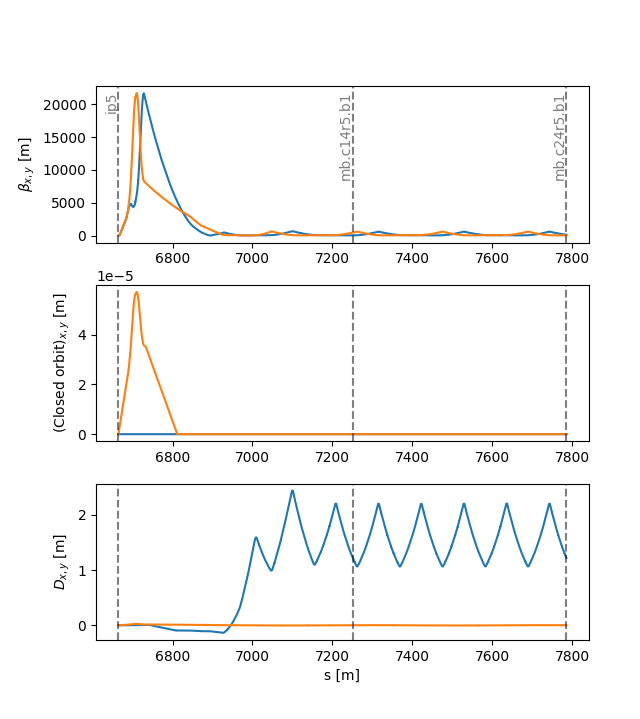
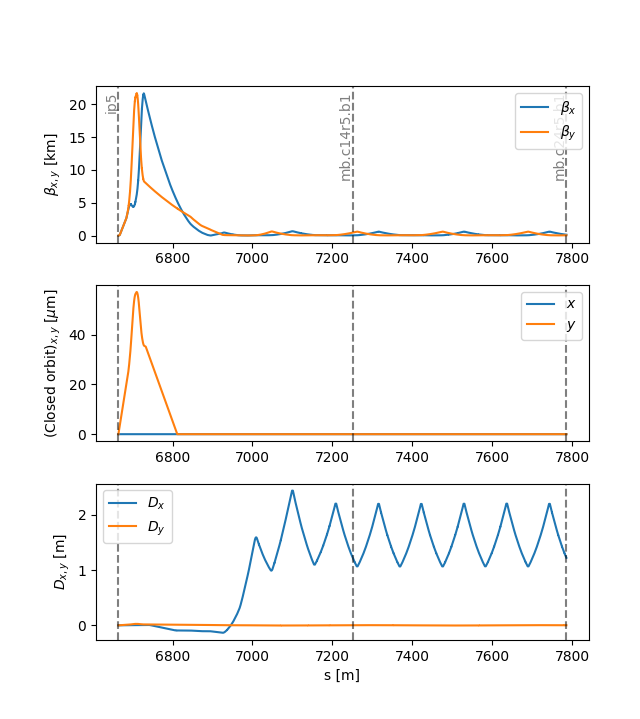
improve twiss and readme

diff --git a/twiss/twiss.py b/twiss/twiss.py
@@ -16,7 +16,6 @@ Twiss defaults
 Twiss with synchrotron radiation
 '''
 
-
 #? How to generate and access the line.twiss() info
 # Load a beamline from a JSON file and set up the reference particle
 line = xt.Line.from_json('twiss_line.json')
@@ -49,15 +48,15 @@ spco = plt.subplot(3,1,2, sharex=spbet)  # Subplot for the closed orbit, sharing
 spdisp = plt.subplot(3,1,3, sharex=spbet)  # Subplot for dispersion functions, also sharing the x-axis
 
 # Plot horizontal and vertical beta functions
-spbet.plot(tw.s, tw.betx, label=r'$\beta_x$')
-spbet.plot(tw.s, tw.bety, label=r'$\beta_y$')
-spbet.set_ylabel(r'$\beta_{x,y}$ [m]')
+spbet.plot(tw.s, tw.betx*1e-3, label=r'$\beta_x$')
+spbet.plot(tw.s, tw.bety*1e-3, label=r'$\beta_y$')
+spbet.set_ylabel(r'$\beta_{x,y}$ [km]')
 spbet.legend()
 
 # Plot horizontal and vertical closed orbits
-spco.plot(tw.s, tw.x, label=r'$x$')
-spco.plot(tw.s, tw.y, label=r'$y$')
-spco.set_ylabel(r'(Closed orbit)$_{x,y}$ [m]')
+spco.plot(tw.s, tw.x*1e6, label=r'$x$')
+spco.plot(tw.s, tw.y*1e6, label=r'$y$')
+spco.set_ylabel(r'(Closed orbit)$_{x,y}$ [$\mu$m]')
 spco.legend()
 
 # Plot horizontal and vertical dispersions
@@ -80,7 +79,7 @@ spbet.set_xlim(tw['s', 'ip5'] - 1000, tw['s', 'ip5'] + 1000)
 fig1.subplots_adjust(left=.15, right=.92, hspace=.27)
 plt.show()
 
-
+#? What about the *beam size*?
 # Transverse normalized emittances
 nemitt_x = 2.5e-6
 nemitt_y = 2.5e-6
@@ -88,8 +87,7 @@ nemitt_y = 2.5e-6
 # Longitudinal emittance from energy spread
 sigma_pzeta = 2e-4
 gemitt_zeta = sigma_pzeta**2 * tw.bets0
-# similarly, if the bunch length is known, the emittance can be computed as
-# gemitt_zeta = sigma_zeta**2 / tw.bets0
+# similarly, if the bunch length is known, the emittance can be computed as gemitt_zeta = sigma_zeta**2 / tw.bets0
 
 # Compute beam sizes
 beam_sizes = tw.get_beam_covariance(nemitt_x=nemitt_x, nemitt_y=nemitt_y,
@@ -124,18 +122,28 @@ spbet = plt.subplot(3,1,1)
 spdisp = plt.subplot(3,1,2, sharex=spbet)
 spbsz = plt.subplot(3,1,3, sharex=spbet)
 
-spbet.plot(tw.s, tw.betx)
-spbet.plot(tw.s, tw.bety)
-spbet.set_ylabel(r'$\beta_{x,y}$ [m]')
+spbet.plot(tw.s, tw.betx*1e-3, label=r'$\beta_x$')
+spbet.plot(tw.s, tw.bety*1e-3, label=r'$\beta_y$')
+spbet.set_ylabel(r'$\beta_{x,y}$ [km]')
+spbet.legend()
 
-spdisp.plot(tw.s, tw.dx)
-spdisp.plot(tw.s, tw.dy)
+spdisp.plot(tw.s, tw.dx, label=r'$D_x$')
+spdisp.plot(tw.s, tw.dy, label=r'$D_y$')
 spdisp.set_ylabel(r'$D_{x,y}$ [m]')
+spdisp.set_xlabel('s [m]')
+spdisp.legend()
 
-spbsz.plot(beam_sizes.s, beam_sizes.sigma_x)
-spbsz.plot(beam_sizes.s, beam_sizes.sigma_y)
-spbsz.set_ylabel(r'$\sigma_{x,y}$ [m]')
+spbsz.plot(beam_sizes.s, beam_sizes.sigma_x*1e3, label=r'$\sigma_x$')
+spbsz.plot(beam_sizes.s, beam_sizes.sigma_y*1e3, label=r'$\sigma_y$')
+spbsz.set_ylabel(r'$\sigma_{x,y}$ [mm]')
 spbsz.set_xlabel('s [m]')
+spbsz.legend()
+
+fig2.suptitle(
+    r'$q_x$ = ' f'{tw.qx:.5f}' r' $q_y$ = ' f'{tw.qy:.5f}' '\n'
+    r"$Q'_x$ = " f'{tw.dqx:.2f}' r" $Q'_y$ = " f'{tw.dqy:.2f}'
+    r' $\gamma_{tr}$ = ' f'{1/np.sqrt(tw.momentum_compaction_factor):.2f}'
+)
 
 spbet.set_xlim(tw['s', 'ip5'] - 1000, tw['s', 'ip5'] + 1000)
 
@@ -199,23 +207,26 @@ spbet = plt.subplot(3,1,1)
 spco = plt.subplot(3,1,2, sharex=spbet)
 spdisp = plt.subplot(3,1,3, sharex=spbet)
 
-spbet.plot(tw.s, tw.betx)
-spbet.plot(tw.s, tw.bety)
-spbet.set_ylabel(r'$\beta_{x,y}$ [m]')
+spbet.plot(tw.s, tw.betx*1e-3, label=r'$\beta_x$')
+spbet.plot(tw.s, tw.bety*1e-3, label=r'$\beta_y$')
+spbet.set_ylabel(r'$\beta_{x,y}$ [km]')
+spbet.legend()
 
-spco.plot(tw.s, tw.x)
-spco.plot(tw.s, tw.y)
-spco.set_ylabel(r'(Closed orbit)$_{x,y}$ [m]')
+spco.plot(tw.s, tw.x*1e6, label=r'$x$')
+spco.plot(tw.s, tw.y*1e6, label=r'$y$')
+spco.set_ylabel(r'(Closed orbit)$_{x,y}$ [$\mu$m]')
+spco.legend()
 
-spdisp.plot(tw.s, tw.dx)
-spdisp.plot(tw.s, tw.dy)
+spdisp.plot(tw.s, tw.dx, label=r'$D_x$')
+spdisp.plot(tw.s, tw.dy, label=r'$D_y$')
 spdisp.set_ylabel(r'$D_{x,y}$ [m]')
 spdisp.set_xlabel('s [m]')
+spdisp.legend()
 
 for nn in ['ip5', 'mb.c14r5.b1', 'mb.c24r5.b1']:
     for ax in [spbet, spco, spdisp]:
         ax.axvline(tw_p['s', nn], color='k', ls='--', alpha=.5)
-    spbet.text(tw_p['s', nn], 22000, nn, rotation=90,
+    spbet.text(tw_p['s', nn], 22, nn, rotation=90,
         horizontalalignment='right', verticalalignment='top', alpha=.5)
 
 fig1.subplots_adjust(left=.15, right=.92, hspace=.27)

diff --git a/README.md b/README.md
@@ -1,5 +1,4 @@
-<!-- <div style="width: 830px"> -->
-<div style="width: 830px">
+<!-- vscode-only-start --><div style="width: 830px"><!-- vscode-only-end -->
 
 # X-Suite starter pack
 As described on [x-suite website](https://xsuite.readthedocs.io/en/latest/):  
@@ -13,8 +12,8 @@ When possible, I will point to the link of the original example/repo.
 - [First working example](#first-working-example)
 - [Describe a Line](#describe-a-line)
 - [Build a ring](#build-a-ring)
-- [Acceleration](#Acceleration)
 - [Twiss](#twiss)
+- [Acceleration](#Acceleration)
 
 ## Install X-Suite
 X-Suite can be easily installed via `pip` but in case you prefer I have a dockerfile you can use.
@@ -251,90 +250,6 @@ Now we can finally see our results!
 
 </details>
 
-## Acceleration
-Let's see what happens when we rump up the energy of the particles
-
-> [!NOTE]
-> The corresponding file is [acceleration.py](acceleration/acceleration.py)
-> 
-> This is based on : https://github.com/xsuite/xtrack/blob/main/examples/acceleration/001_energy_ramp.py
-
-<details>
-<summary>Click here to see more!</summary>
-
-### Line and intended ramp-up
-
-We start by importing a pre-existing beamline [acceleration_line.json](acceleration/acceleration_line.json)
-
-![acceleration line](acceleration/acceleration_line.png)
-
-
-We then define how we want to ramp-up the energy
-
-```
-# User-defined energy ramp: time values [s] and corresponding kinetic energies [GeV]
-t_s = np.array([0., 0.0006, 0.0008, 0.001 , 0.0012, 0.0014, 0.0016, 0.0018,
-                0.002 , 0.0022, 0.0024, 0.0026, 0.0028, 0.003, 0.01])
-
-E_kin_GeV = np.array([0.16000000,0.16000000,
-    0.16000437, 0.16001673, 0.16003748, 0.16006596, 0.16010243, 0.16014637,
-    0.16019791, 0.16025666, 0.16032262, 0.16039552, 0.16047524, 0.16056165,
-    0.163586])
-
-# Attach the energy program to the line to define how the kinetic energy evolves over time
-line.energy_program = xt.EnergyProgram(
-    t_s=t_s,                            # Array of time points [s]
-    kinetic_energy0=E_kin_GeV * 1e9     # Corresponding kinetic energies [eV]
-)
-```
-
-### Propagate the ramp-up to the elements
-
-Now we need to tell te elements in the line to follow the ramp-up we created
-
-```
-
-# Setup the RF cavity frequency to stay on the second harmonic of the revolution frequency
-t_rf = np.linspace(0, 3e-3, 100)                    # Time samples for the frequency program (in seconds)
-f_rev = line.energy_program.get_frev_at_t_s(t_rf)   # Get revolution frequency for each time sample
-h_rf = 2                                            # Harmonic number
-f_rf = h_rf * f_rev                                 # Calculate RF frequency as harmonic number times revolution frequency
-
-# Build a piecewise linear function using the time and frequency samples and link it to the RF cavity
-line.functions['fun_f_rf'] = xt.FunctionPieceWiseLinear(x=t_rf, y=f_rf)
-line.element_refs['br.c02'].frequency = line.functions['fun_f_rf'](
-                                                        line.vars['t_turn_s']) # Assign the RF frequency function
-
-# Setup the voltage and phase lag of the RF cavity
-line.element_refs['br.c02'].voltage = 3000  # Set the RF cavity voltage [V]
-line.element_refs['br.c02'].lag = 0         # Set the phase lag (in degrees, below transition energy)
-
-# When setting the line variable 't_turn_s', the reference energy and the RF frequency are updated automatically
-line.vars['t_turn_s'] = 0
-line.particle_ref.kinetic_energy0   # Kinetic energy should be 160.00000 MeV
-line['br.c02'].frequency            # RF frequency should be 1983931.935 Hz
-
-line.vars['t_turn_s'] = 3e-3
-line.particle_ref.kinetic_energy0   # Kinetic energy updates to 160.56165 MeV
-line['br.c02'].frequency            # RF frequency updates to 1986669.0559674294 Hz
-
-# Reset to zero for tracking (prepare initial state)
-line.vars['t_turn_s'] = 0
-
-# Track a few particles to visualize the longitudinal phase space
-p_test = line.build_particles(x_norm=0, zeta=np.linspace(0, line.get_length(), 101))
-
-# Enable time-dependent variables (automatically update variables like 't_turn_s' at each turn)
-line.enable_time_dependent_vars = True
-
-# Track particles for 9000 turns and record data, with progress tracking enabled
-line.track(p_test, num_turns=9000, turn_by_turn_monitor=True, with_progress=True)
-mon = line.record_last_track
-```
-
-![acceleration](acceleration/acceleration.png)
-
-</details>
 
 ## Twiss
 
@@ -457,6 +372,92 @@ The results for `tw5` in this case are the one shown here
 ![twiss_initialconditions](twiss/twiss_initialconditions.png)
 
 </details>
+
+## Acceleration
+Let's see what happens when we rump up the energy of the particles
+
+> [!NOTE]
+> The corresponding file is [acceleration.py](acceleration/acceleration.py)
+> 
+> This is based on : https://github.com/xsuite/xtrack/blob/main/examples/acceleration/001_energy_ramp.py
+
+<details>
+<summary>Click here to see more!</summary>
+
+### Line and intended ramp-up
+
+We start by importing a pre-existing beamline [acceleration_line.json](acceleration/acceleration_line.json)
+
+![acceleration line](acceleration/acceleration_line.png)
+
+
+We then define how we want to ramp-up the energy
+
+```
+# User-defined energy ramp: time values [s] and corresponding kinetic energies [GeV]
+t_s = np.array([0., 0.0006, 0.0008, 0.001 , 0.0012, 0.0014, 0.0016, 0.0018,
+                0.002 , 0.0022, 0.0024, 0.0026, 0.0028, 0.003, 0.01])
+
+E_kin_GeV = np.array([0.16000000,0.16000000,
+    0.16000437, 0.16001673, 0.16003748, 0.16006596, 0.16010243, 0.16014637,
+    0.16019791, 0.16025666, 0.16032262, 0.16039552, 0.16047524, 0.16056165,
+    0.163586])
+
+# Attach the energy program to the line to define how the kinetic energy evolves over time
+line.energy_program = xt.EnergyProgram(
+    t_s=t_s,                            # Array of time points [s]
+    kinetic_energy0=E_kin_GeV * 1e9     # Corresponding kinetic energies [eV]
+)
+```
+
+### Propagate the ramp-up to the elements
+
+Now we need to tell te elements in the line to follow the ramp-up we created
+
+```
+
+# Setup the RF cavity frequency to stay on the second harmonic of the revolution frequency
+t_rf = np.linspace(0, 3e-3, 100)                    # Time samples for the frequency program (in seconds)
+f_rev = line.energy_program.get_frev_at_t_s(t_rf)   # Get revolution frequency for each time sample
+h_rf = 2                                            # Harmonic number
+f_rf = h_rf * f_rev                                 # Calculate RF frequency as harmonic number times revolution frequency
+
+# Build a piecewise linear function using the time and frequency samples and link it to the RF cavity
+line.functions['fun_f_rf'] = xt.FunctionPieceWiseLinear(x=t_rf, y=f_rf)
+line.element_refs['br.c02'].frequency = line.functions['fun_f_rf'](
+                                                        line.vars['t_turn_s']) # Assign the RF frequency function
+
+# Setup the voltage and phase lag of the RF cavity
+line.element_refs['br.c02'].voltage = 3000  # Set the RF cavity voltage [V]
+line.element_refs['br.c02'].lag = 0         # Set the phase lag (in degrees, below transition energy)
+
+# When setting the line variable 't_turn_s', the reference energy and the RF frequency are updated automatically
+line.vars['t_turn_s'] = 0
+line.particle_ref.kinetic_energy0   # Kinetic energy should be 160.00000 MeV
+line['br.c02'].frequency            # RF frequency should be 1983931.935 Hz
+
+line.vars['t_turn_s'] = 3e-3
+line.particle_ref.kinetic_energy0   # Kinetic energy updates to 160.56165 MeV
+line['br.c02'].frequency            # RF frequency updates to 1986669.0559674294 Hz
+
+# Reset to zero for tracking (prepare initial state)
+line.vars['t_turn_s'] = 0
+
+# Track a few particles to visualize the longitudinal phase space
+p_test = line.build_particles(x_norm=0, zeta=np.linspace(0, line.get_length(), 101))
+
+# Enable time-dependent variables (automatically update variables like 't_turn_s' at each turn)
+line.enable_time_dependent_vars = True
+
+# Track particles for 9000 turns and record data, with progress tracking enabled
+line.track(p_test, num_turns=9000, turn_by_turn_monitor=True, with_progress=True)
+mon = line.record_last_track
+```
+
+![acceleration](acceleration/acceleration.png)
+
+</details>
+
 
 ## ...Upcoming
 
